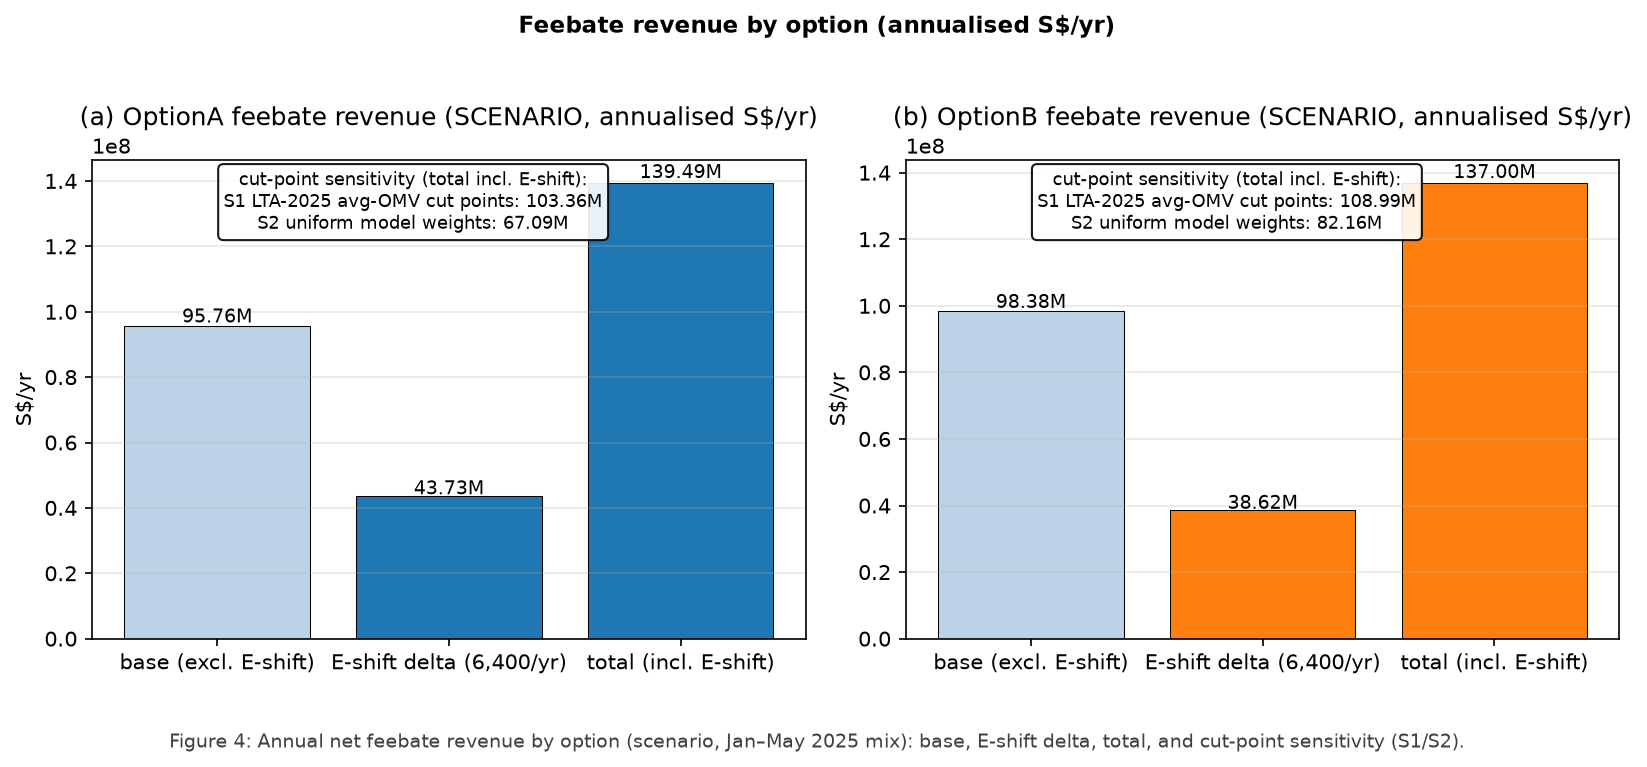
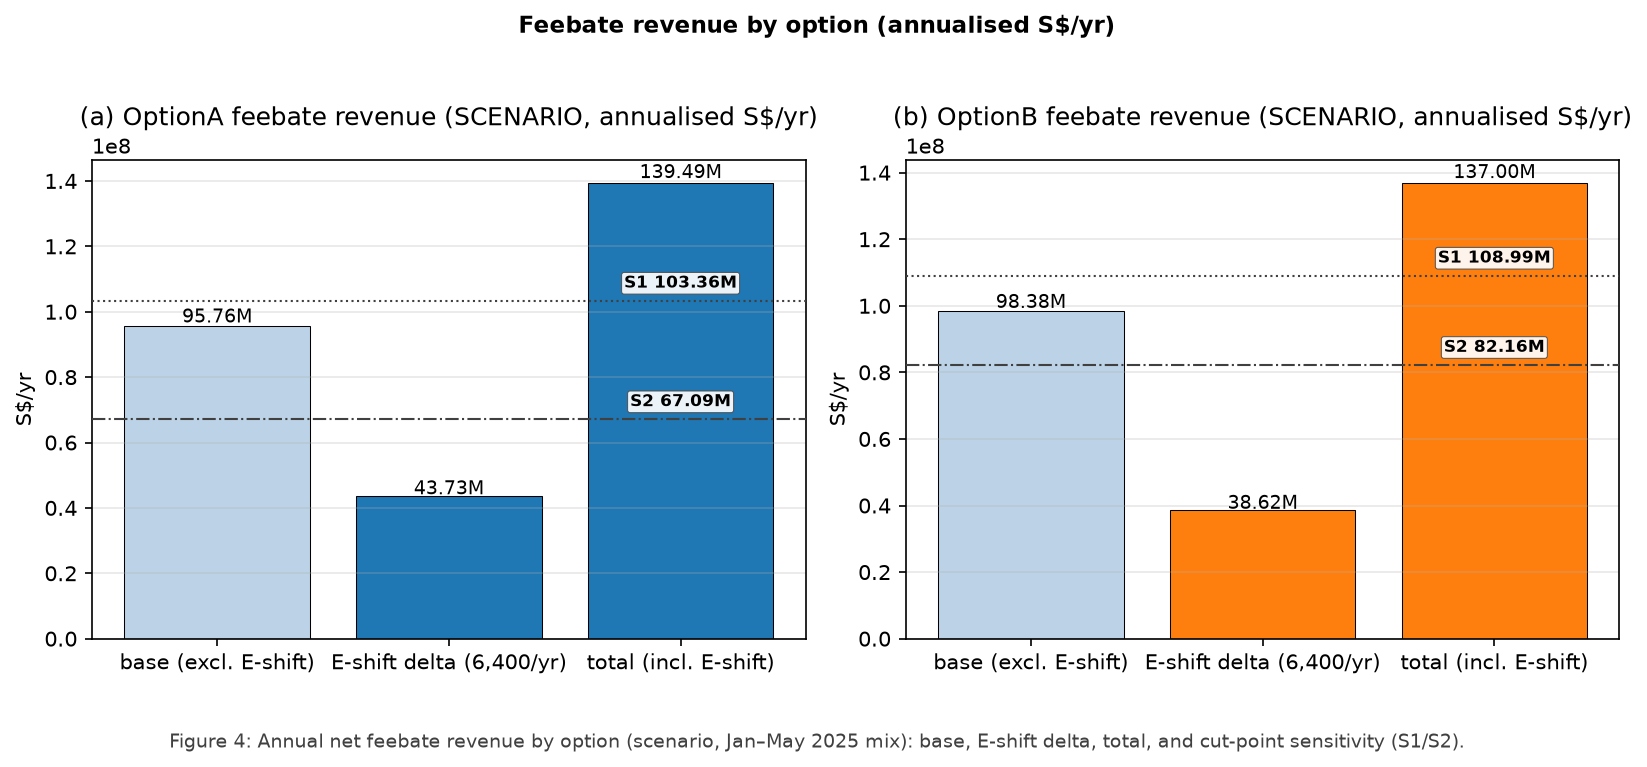
Figure 4: replace the sensitivity text boxes with horizontal dotted (S1) and dash-dot (S2) lines at the variant total levels, labelled with white pills on the total bar — the lines show the cut-point swing directly against the total bar; caption updated accordingly

diff --git a/src/make_charts.py b/src/make_charts.py
@@ -334,8 +334,11 @@ def fig4():
         for b, v in zip(bars, [base, delta, total]):
             ax.text(b.get_x() + b.get_width() / 2, v * 1.01, f"{v/1e6:,.2f}M", ha="center", fontsize=9)
         s1 = sens[opt].get("S1_lta2025_omv"); s2 = sens[opt].get("S2_uniform_weights")
-        ax.text(0.45, 0.98, f"cut-point sensitivity (total incl. E-shift):\nS1 LTA-2025 avg-OMV cut points: {s1/1e6:,.2f}M\nS2 uniform model weights: {s2/1e6:,.2f}M",
-                transform=ax.transAxes, fontsize=8.5, va="top", ha="center", bbox=dict(boxstyle="round", fc="white", alpha=0.9))
+        for val, sty, labl in ((s1, ":", "S1"), (s2, "-.", "S2")):
+            ax.axhline(val, color="0.25", ls=sty, lw=1.0, zorder=3)
+            ax.text(2.0, val + 2.8e6, f"{labl} {val/1e6:,.2f}M", ha="center", va="bottom",
+                    fontsize=8, fontweight="bold",
+                    bbox=dict(boxstyle="round,pad=0.15", fc="white", ec="0.3", lw=0.5, alpha=0.92))
         ax.set_title(f"({lab}) {opt} feebate revenue (SCENARIO, annualised S$/yr)")
         ax.set_ylabel("S$/yr")
         ax.grid(alpha=0.3, axis="y")

diff --git a/README.md b/README.md
@@ -365,7 +365,7 @@ sensitivity (S1/S2).
 
 *Bars: base revenue (excluding the E-shift), the E-shift delta
 (6,400 re-entering cars/yr), and the total including the E-shift. The
-boxed values are the two documented cut-point sensitivities (S1: LTA
+dotted lines mark the two documented cut-point sensitivities (S1: LTA
 2025-edition average-OMV cut points; S2: uniform model weights), each
 total incl. E-shift.*
 
